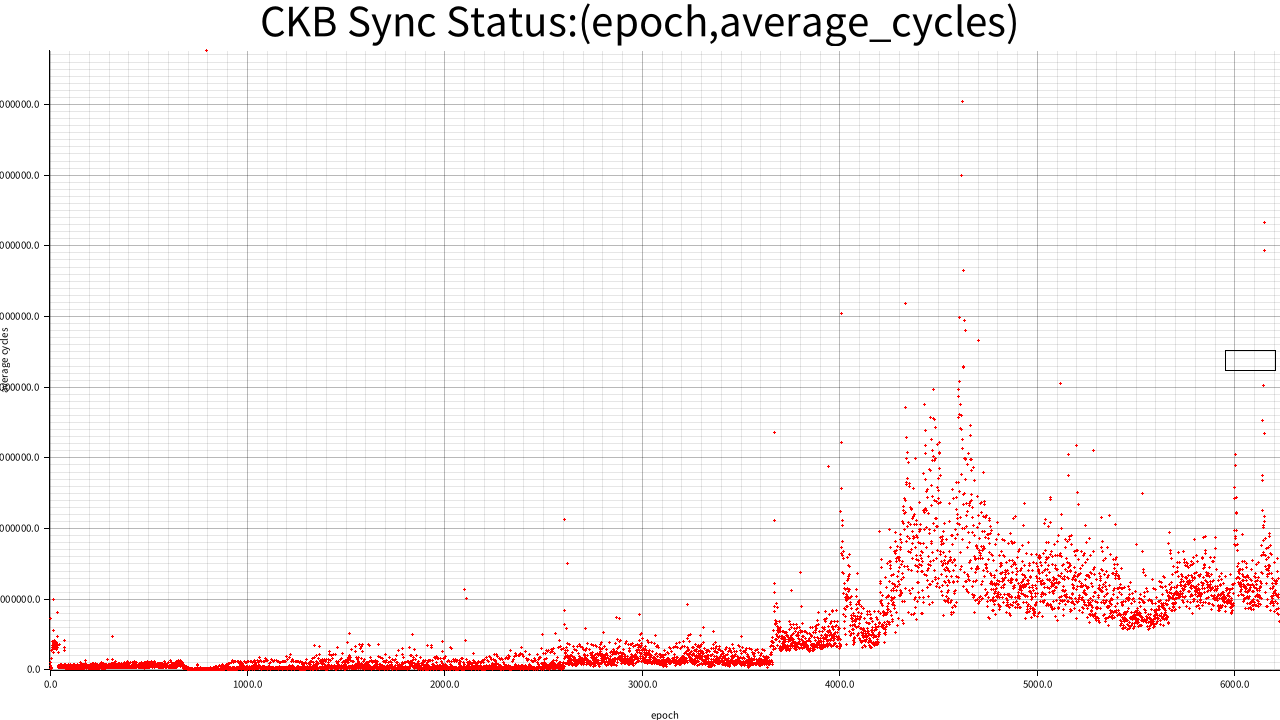
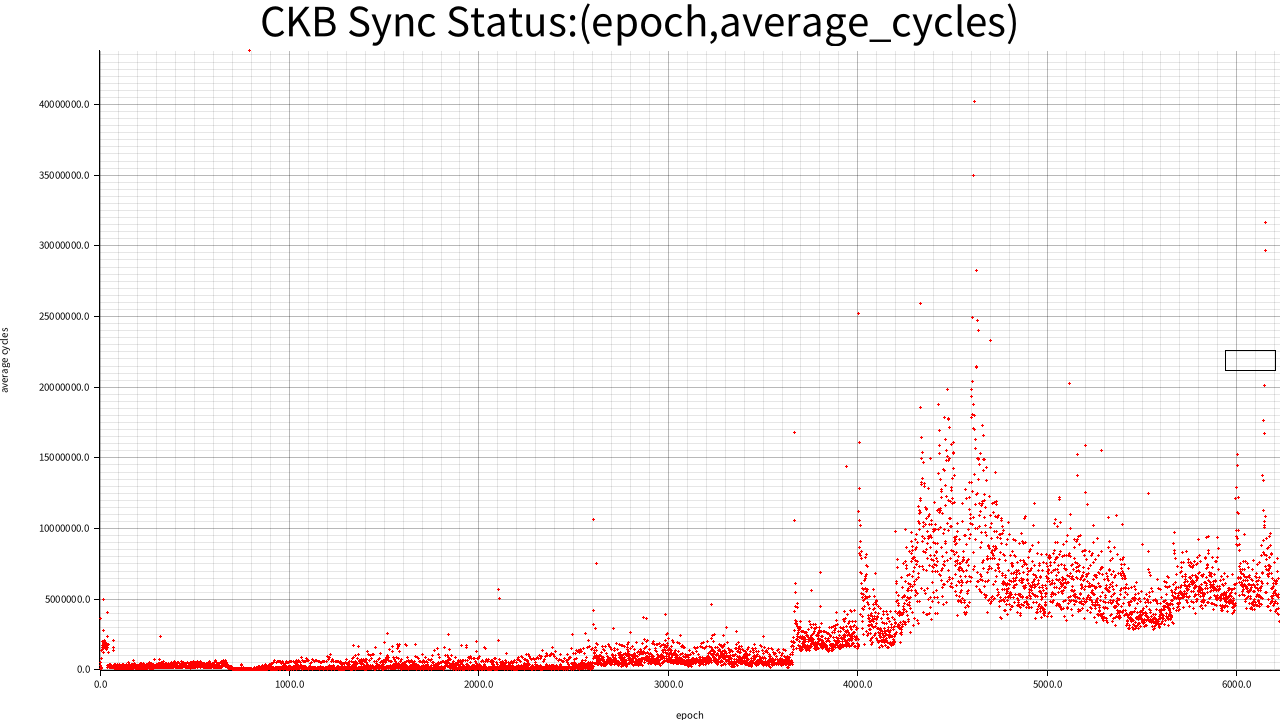
update README.md: add cycles metrics

Changed region(s): [[0.0, 0.0611, 1.0, 1.0], [0.9375, 0.9472, 0.9688, 0.9778], [0.6562, 0.9472, 0.6875, 0.9778]]

diff --git a/ckb-log-analyzer/src/main.rs b/ckb-log-analyzer/src/main.rs
@@ -26,7 +26,7 @@ fn main() {
     // draw_height_block_size()
     // draw_time_cost()
 
-    // draw_height_cycles(&mm);
+    draw_height_cycles(&mm);
     let epoch_mm = height_to_epoch(&mm);
     draw_epoch_cycles(&epoch_mm);
 }
@@ -385,12 +385,12 @@ fn draw_u64(filename: &str, points: &[(u64, u64)], chart_name: &str, y_max: u64,
     let root = BitMapBackend::new(filename, (1280, 720)).into_drawing_area();
 
     root.fill(&WHITE)?;
-    root.margin(10, 10, 10, 10);
+    root.margin(10, 10, 20, 10);
 
     let mut chart = ChartBuilder::on(&root)
         .caption(chart_name, ("sans-serif", 50).into_font())
         .x_label_area_size(50)
-        .y_label_area_size(50)
+        .y_label_area_size(100)
         .build_cartesian_2d(
             points.first().unwrap().0..points.last().unwrap().0,
             0..y_max
@@ -420,12 +420,12 @@ fn draw_f64(filename: &str, points: &[(f64, f64)], chart_name: &str, y_max: f64,
     let root = BitMapBackend::new(filename, (1280, 720)).into_drawing_area();
 
     root.fill(&WHITE)?;
-    root.margin(10, 10, 10, 10);
+    root.margin(10, 10, 20, 10);
 
     let mut chart = ChartBuilder::on(&root)
         .caption(chart_name, ("sans-serif", 50).into_font())
         .x_label_area_size(50)
-        .y_label_area_size(50)
+        .y_label_area_size(100)
         .build_cartesian_2d(
             points.first().unwrap().0..points.last().unwrap().0,
             0.0..y_max,
